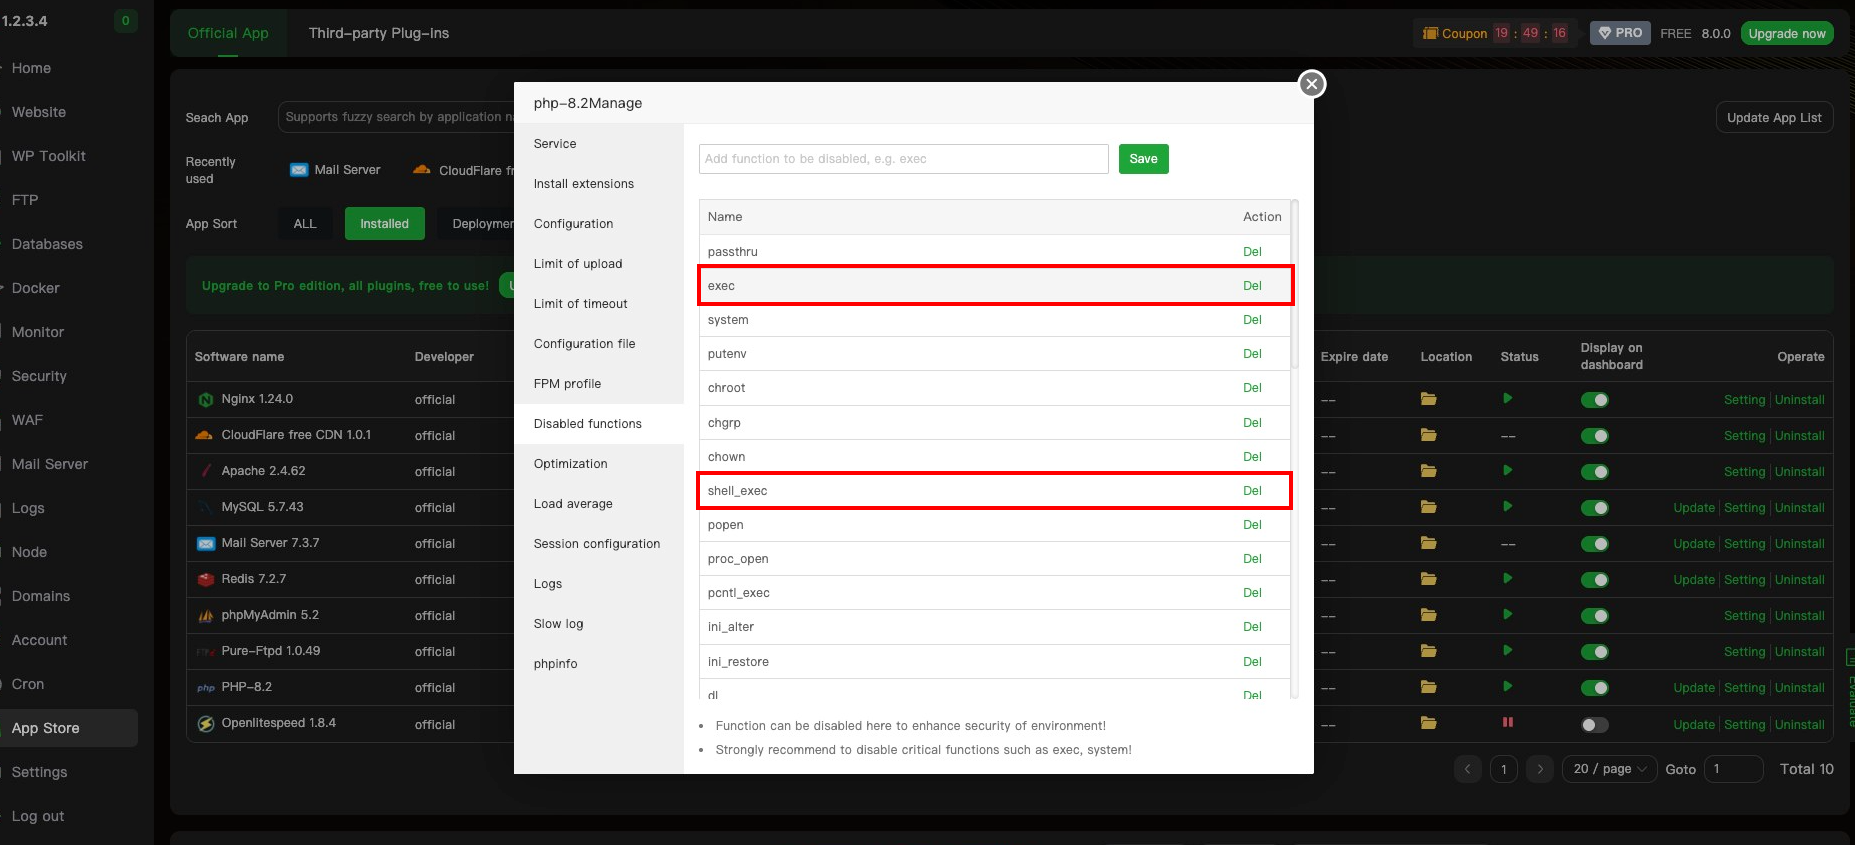
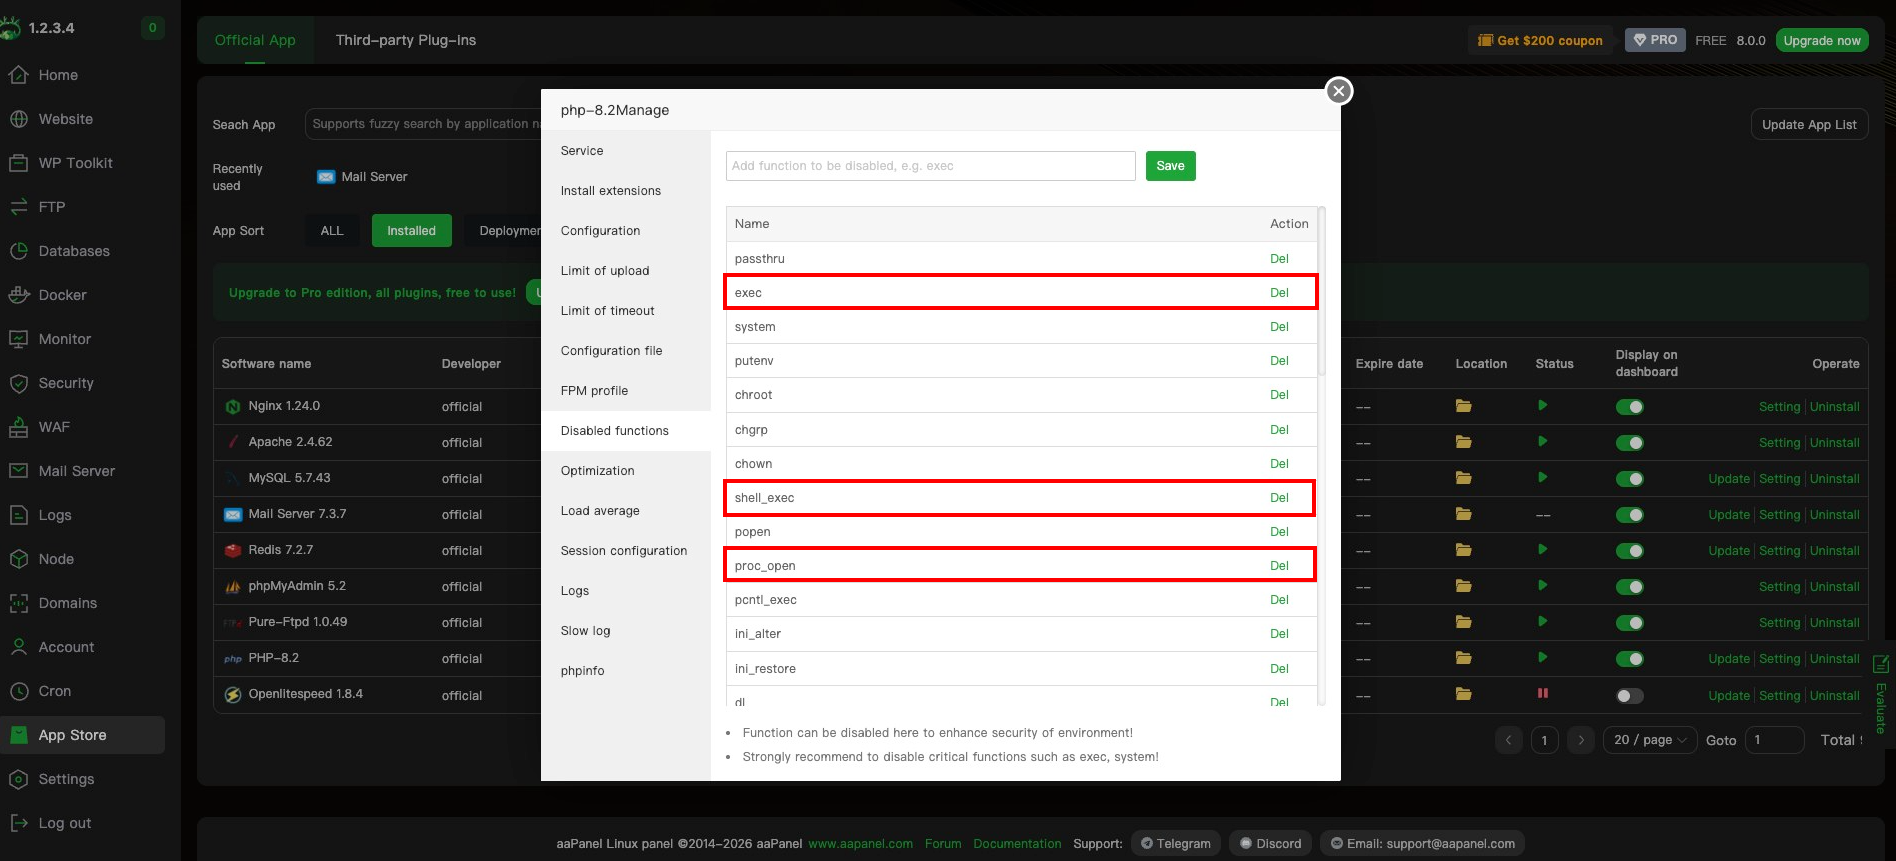
docs: Update VPS server setup instructions to include `proc_open` in disabled functions, modify the related image, and remove the Snyk organization ID from settings.

diff --git a/installation/admin-panel-installation/vps-server-setup.md b/installation/admin-panel-installation/vps-server-setup.md
@@ -95,7 +95,7 @@ Log in to aaPanel using the provided URL and credentials, then install:
 
 ![e-School SaaS](../../static/images/installation/admin/php-disabled-function.png)
 
-> ⚠ **Important:** Go to PHP Disabled Functions and remove `symlink`, `exec` and `shell_exec` from the list.
+> ⚠ **Important:** Go to PHP Disabled Functions and remove `symlink`, `exec`, `shell_exec`, `proc_open` from the list.
 
 Restart PHP services after making these changes.
 
